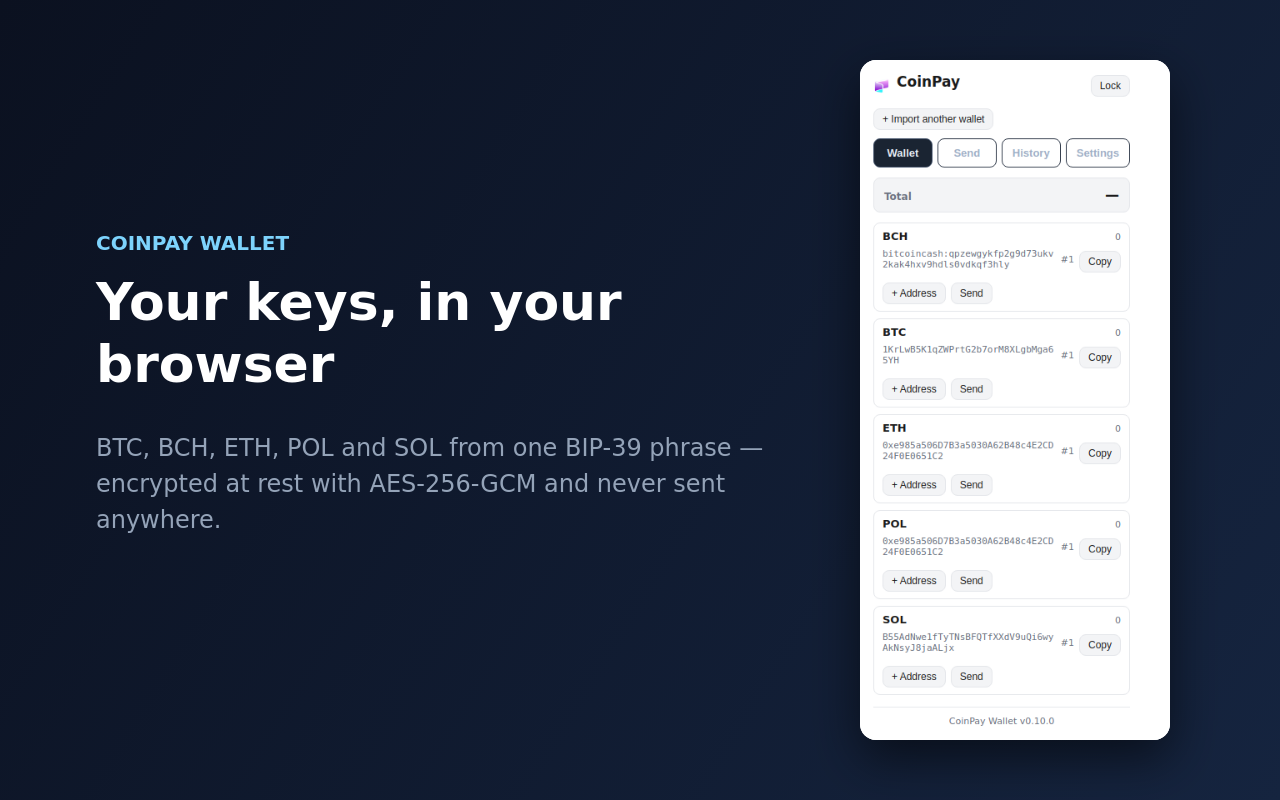
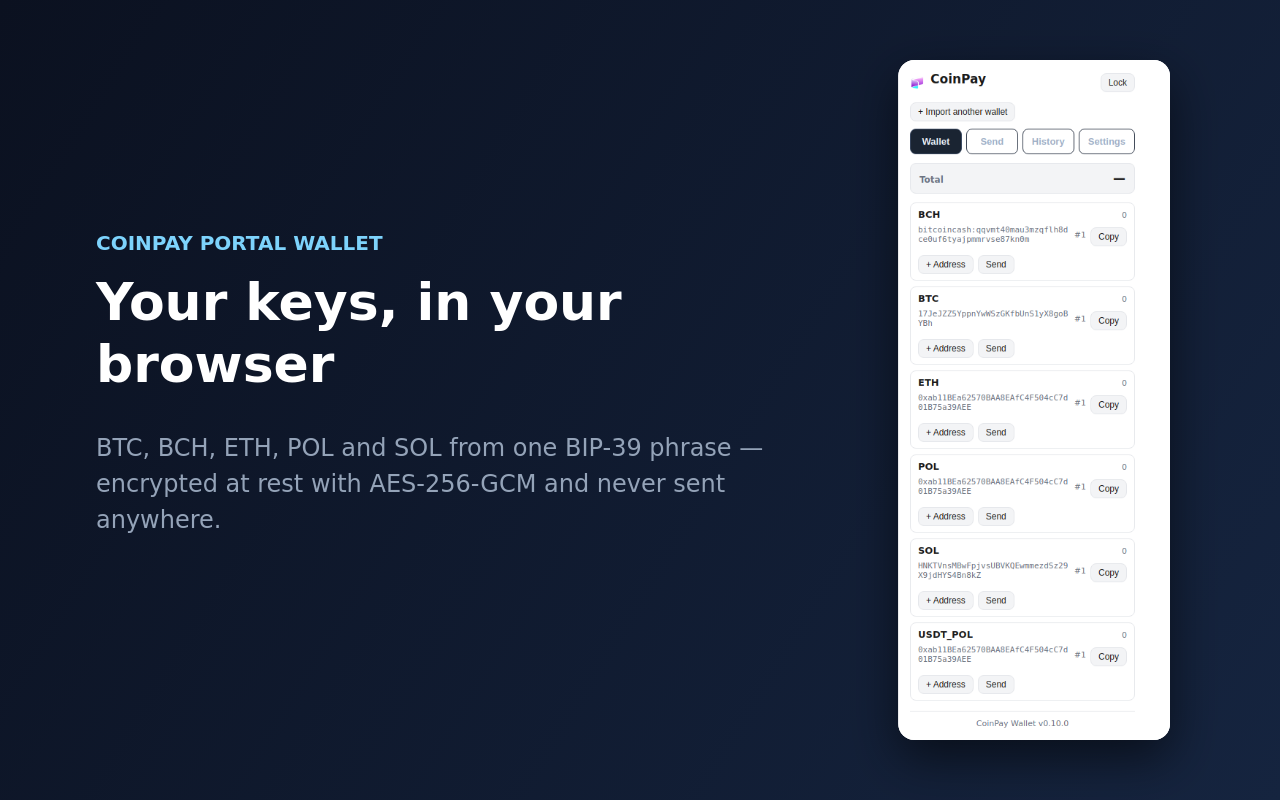
Rename the store listing to CoinPay Portal Wallet
"CoinPay Wallet" is not a name this account can show it owns. Unrelated live
crypto payment businesses trade as CoinPay — coinpay.finance, CoinPay
Australia — beside the much larger CoinPayments, and fake wallets
impersonating payment brands are the abuse category AMO polices hardest. A new
wallet under a bare brand name, disabled ten minutes after submission by
something that never read the code, is the shape of an origin-and-affiliation
flag. Nothing proves that was the trigger; it is the one candidate that
explains the speed, the absent review and the single-add-on scope together.

"CoinPay Portal Wallet" is anchored to coinpayportal.com, a domain the
publisher demonstrably operates, so the affiliation is checkable rather than
asserted. The listing description now opens by naming the operator and states
plainly that the add-on is unaffiliated with other services using the CoinPay
name.

Scope is the listing identity only: the three store manifests, store-listing
copy, the store screenshots and the release doc. The web wallet, the SDK and
the popup's own chrome keep their names — the popup footer still reads
"CoinPay Wallet", which is worth reconciling but is a product decision rather
than part of this fix.

The AMO slug (coinpay-wallet) and the gecko id are unchanged: both are
immutable while the add-on is disabled, and neither is what a user reads.

Claude-Session: https://claude.ai/code/session_015d6CvRD1PDoaENa8hNPpaS

diff --git a/docs/EXTENSION_STORE_RELEASE.md b/docs/EXTENSION_STORE_RELEASE.md
@@ -1,4 +1,4 @@
-# Releasing the CoinPay Wallet extension
+# Releasing the CoinPay Portal Wallet extension
 
 The extension ships through four channels off one build. Everything except the
 Safari step runs on any machine.
